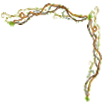
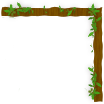
fix decor position

Changed region(s): [[0.0, 0.0, 1.0, 0.9808]]

diff --git a/style.css b/style.css
@@ -86,6 +86,7 @@ h1:hover{ color:var(--accent); }
   padding:6px 10px;
   display:inline-block;
   margin-bottom:24px;
+  position:relative;
 }
 .statut b{ color:var(--accent); }
 
@@ -158,6 +159,7 @@ aside{
   position: relative;
 }
 aside .bloc{
+  position:relative;
   border:1px solid var(--border);
   background:var(--card-bg);
   padding:12px;
@@ -181,35 +183,35 @@ aside ul li a:hover{ text-decoration:underline; }
   margin-right:5px;
 }
 
- /* ---- liane par bloc : enroulée sur le coin supérieur droit ---- */
+ /* ---- liane par bloc : enroulée sur le coin supérieur droit, ancrée au bloc ---- */
   .liane-coin1, .liane-coin3 {
-    position:relative;
-    top:-11px;
-    left:185px;
-    width:80px;
-    height:80px;
+    position:absolute;
+    top:-9px;
+    right:-5px;
+    width:52px;
+    height:52px;
     z-index:3;
     pointer-events:none;
-    margin: -50px;
+    image-rendering:pixelated;
   }
 
   .liane-coin2, .liane-coin4{
-    position:relative;
+    position:absolute;
     top:-5px;
-    left:25px;
-    width:80px;
-    height:80px;
+    left:-9px;
+    width:52px;
+    height:52px;
     z-index:3;
     pointer-events:none;
-    margin: -50px;
     rotate: -90deg;
+    image-rendering: pixelated;
   }
 
-  /* ---- le renard, posé sur le coin du dernier bloc ---- */
+  /* ---- le renard, posé sur le coin bas-droit du bloc "en ce moment" ---- */
   .renard{
     position:absolute;
-    top: 10%;
-    right:40%;
+    bottom:-18px;
+    right:-45px;
     width:64px;
     z-index:4;
     pointer-events:none;
@@ -225,4 +227,11 @@ aside ul li a:hover{ text-decoration:underline; }
 
 @media (max-width:680px){
   h1{ width: 100%;}
-}
+  .renard {
+    position: absolute;
+    bottom: -5px;
+    right: -17px;
+    width: 64px;
+    z-index: 4;
+    pointer-events: none;}
+  }

diff --git a/billets/helloworld.html b/billets/helloworld.html
@@ -18,7 +18,9 @@
     <h1>bureau des projets</h1>
     <p class="tagline">le site perso de Jordan Mrt.</p>
 
-<div class="statut">en ce moment : <b id="statut-live">chargement…</b></div>
+<div class="statut">en ce moment : <b id="statut-live">chargement…</b>
+<img class="renard" src="../assets/decor/renard.gif" alt="petit renard, mascotte du site">
+</div>
 
 <script>
   fetch("../en-ce-moment.json")
@@ -47,6 +49,7 @@
   <aside>
 
     <div class="bloc">
+      <img class="liane-coin1" src="../assets/decor/liane-coin.png" alt="">
       <h4>statut</h4>
       <span class="dot" id="statut-dot"></span><span id="statut-texte">en ligne</span>
       <div id="statut-message" style="margin-top:4px; color:var(--muted); display:none;"></div>
@@ -60,6 +63,7 @@
     </div>
 
     <div class="bloc">
+      <img class="liane-coin2" src="../assets/decor/liane-coin.png" alt="">
       <h4>navigation</h4>
       <ul>
         <li><a href="https://jordanmrt.github.io/bureau-des-projets/">accueil</a></li>
@@ -70,6 +74,7 @@
     </div>
 
     <div class="bloc">
+      <img class="liane-coin3" src="../assets/decor/liane-coin.png" alt="">
       <h4>ailleurs</h4>
       <ul>
         <li><a href="https://github.com/JordanMRT" target="_blank">github</a></li>
@@ -79,6 +84,7 @@
     </div>
 
     <div class="bloc">
+      <img class="liane-coin4" src="../assets/decor/liane-coin.png" alt="">
       <h4>sites que j'aime</h4>
       <ul>
         <li><a href="#">[à compléter]</a></li>

diff --git a/billets.html b/billets.html
@@ -18,7 +18,9 @@
     <h1>bureau des projets</h1>
     <p class="tagline">le site perso de Jordan Mrt.</p>
 
-<div class="statut">en ce moment : <b id="statut-live">chargement…</b></div>
+<div class="statut">en ce moment : <b id="statut-live">chargement…</b>
+<img class="renard" src="assets/decor/renard.gif" alt="petit renard, mascotte du site">
+</div>
 
 <script>
   fetch('en-ce-moment.json')
@@ -48,6 +50,7 @@
   <aside>
 
     <div class="bloc">
+      <img class="liane-coin1" src="assets/decor/liane-coin.png" alt="">
       <h4>statut</h4>
       <span class="dot" id="statut-dot"></span><span id="statut-texte">en ligne</span>
       <div id="statut-message" style="margin-top:4px; color:var(--muted); display:none;"></div>
@@ -61,6 +64,7 @@
     </div>
 
     <div class="bloc">
+      <img class="liane-coin2" src="assets/decor/liane-coin.png" alt="">
       <h4>navigation</h4>
       <ul>
         <li><a href="https://jordanmrt.github.io/bureau-des-projets/">accueil</a></li>
@@ -71,6 +75,7 @@
     </div>
 
     <div class="bloc">
+      <img class="liane-coin3" src="assets/decor/liane-coin.png" alt="">
       <h4>ailleurs</h4>
       <ul>
         <li><a href="https://github.com/JordanMRT" target="_blank">github</a></li>
@@ -80,6 +85,7 @@
     </div>
 
     <div class="bloc">
+      <img class="liane-coin4" src="assets/decor/liane-coin.png" alt="">
       <h4>sites que j'aime</h4>
       <ul>
         <li><a href="#">[à compléter]</a></li>

diff --git a/index.html b/index.html
@@ -31,7 +31,7 @@
     .catch(() => {});
 </script>
 
-    <p>Salut, c'est mon coin perso. Je bidouille des trucs quand j'en ai envie (des sites, PWA, idées farfelues) et je note ça ici de temps en temps. Rien de très sérieux, surtout pour le plaisir de coder.</p>
+    <p>Salut, c'est mon coin perso. Je bidouille des trucs quand j'en ai envie (des sites, PWA, des idées farfelues) et je note ça ici de temps en temps. Rien de très sérieux, surtout pour le plaisir de coder et d'écrire dans quelque chose proche des blogs que j'ai connu quand j'étais plus jeune.</p>
 
     <h2>projets</h2>
     <ul class="projets">
